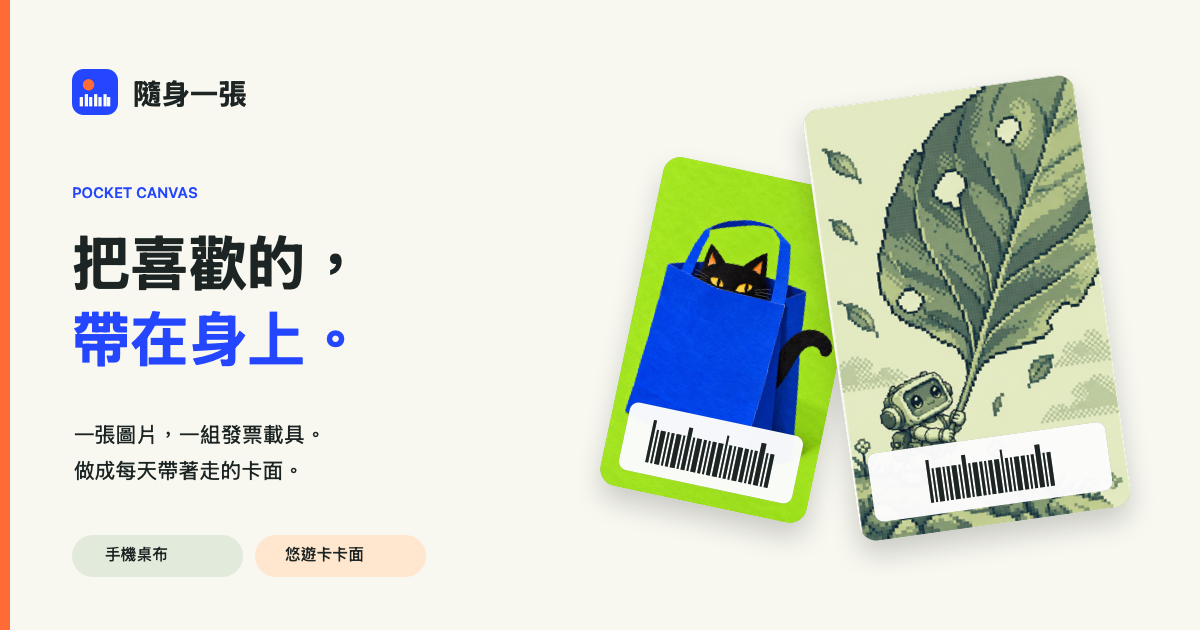
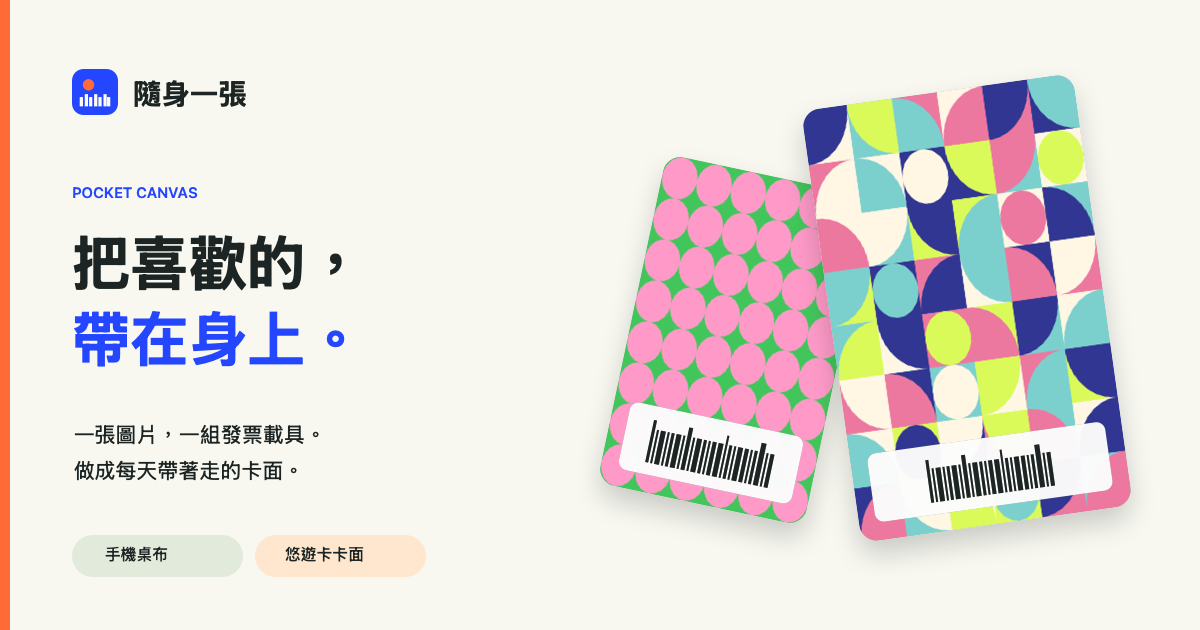
feat(invoice-gen): 更新圖庫分組與分享圖片
- 將夜色移回自由曲線，僅保留彎彎曲線的兩種配色於流動的波浪
- 以相切點點和四分之一圓拼貼重製首頁 OG 圖
- 為首頁及簡易製作頁的 OG、Twitter 圖片加入內容 hash
- 讓素材產生腳本在重新輸出時自動更新分享圖片網址

Changed region(s): [[0.4933, 0.1206, 0.9558, 0.8746]]

diff --git a/invoice-gen/tools/generate-social-assets.swift b/invoice-gen/tools/generate-social-assets.swift
@@ -1,6 +1,7 @@
 // Run from invoice-gen: swift tools/generate-social-assets.swift
-// Generates raster sharing previews from the checked-in artwork.
+// Generates raster sharing previews with two patterns from gallery.js.
 import AppKit
+import CryptoKit
 import Foundation
 
 let canvasWidth = 1200
@@ -47,8 +48,57 @@ func mark(x: CGFloat, y: CGFloat, size: CGFloat) {
     context.restoreGState()
 }
 
-func artwork(_ name: String) -> NSImage {
-    guard let image = NSImage(contentsOfFile: "artworks/\(name)") else { fatalError("Missing artwork: \(name)") }
+func color(_ hex: String) -> NSColor {
+    guard let value = Int(hex.dropFirst(), radix: 16) else { fatalError("Invalid color: \(hex)") }
+    return NSColor(srgbRed: CGFloat((value >> 16) & 255) / 255,
+                   green: CGFloat((value >> 8) & 255) / 255,
+                   blue: CGFloat(value & 255) / 255, alpha: 1)
+}
+
+func pattern(_ name: String) -> NSImage {
+    let width = 1200, height = 1600
+    guard let bitmap = NSBitmapImageRep(bitmapDataPlanes: nil, pixelsWide: width, pixelsHigh: height,
+                                       bitsPerSample: 8, samplesPerPixel: 4, hasAlpha: true,
+                                       isPlanar: false, colorSpaceName: .deviceRGB,
+                                       bytesPerRow: 0, bitsPerPixel: 0),
+          let context = NSGraphicsContext(bitmapImageRep: bitmap) else { fatalError("Cannot create pattern") }
+    NSGraphicsContext.saveGraphicsState()
+    NSGraphicsContext.current = context
+    if name == "dots-touching" {
+        fill(NSRect(x: 0, y: 0, width: width, height: height), color: color("#42c65b"))
+        color("#ff9ac8").setFill()
+        for row in 0..<8 { for col in 0..<6 {
+            NSBezierPath(ovalIn: NSRect(x: col * 200, y: row * 200, width: 200, height: 200)).fill()
+        }}
+    } else if name == "quarter-mosaic" {
+        let colors = ["#fff6e4", "#313692", "#dafa5a", "#ec789f", "#7bd0ce"].map(color)
+        let cells: [[(Int, Int, String)]] = [
+            [(0,1,"tl"),(4,2,"tr"),(3,4,"bl"),(0,3,"br"),(3,1,"tl"),(1,4,"tr")],
+            [(3,0,"br"),(0,4,"bl"),(1,0,"full"),(1,2,"tr"),(4,3,"tl"),(0,2,"full")],
+            [(0,3,"bl"),(4,0,"tl"),(2,1,"tr"),(2,4,"br"),(0,3,"full"),(4,1,"bl")],
+            [(2,4,"tl"),(1,4,"full"),(3,1,"br"),(0,4,"tr"),(1,3,"bl"),(3,0,"tl")],
+            [(4,2,"br"),(0,1,"tr"),(3,2,"full"),(2,3,"bl"),(4,1,"tl"),(0,4,"br")],
+            [(3,0,"tr"),(1,3,"bl"),(4,0,"full"),(0,2,"tl"),(3,4,"br"),(2,1,"tr")],
+            [(0,4,"bl"),(2,1,"full"),(1,0,"tl"),(3,2,"tr"),(4,3,"bl"),(0,1,"br")],
+            [(1,3,"br"),(4,0,"tr"),(0,2,"bl"),(2,4,"full"),(3,1,"tl"),(4,3,"br")]
+        ]
+        let corners: [String: (CGFloat, CGFloat)] = ["tl":(0,0),"tr":(200,0),"br":(200,200),"bl":(0,200),"full":(100,100)]
+        for (row, items) in cells.enumerated() { for (col, cell) in items.enumerated() {
+            let box = NSRect(x: col * 200, y: (7 - row) * 200, width: 200, height: 200)
+            NSGraphicsContext.saveGraphicsState()
+            NSBezierPath(rect: box).addClip()
+            fill(box, color: colors[cell.0])
+            let corner = corners[cell.2]!, radius: CGFloat = cell.2 == "full" ? 100 : 200
+            let cx = box.minX + corner.0, cy = box.maxY - corner.1
+            colors[cell.1].setFill()
+            NSBezierPath(ovalIn: NSRect(x: cx - radius, y: cy - radius, width: radius * 2, height: radius * 2)).fill()
+            NSGraphicsContext.restoreGraphicsState()
+        }}
+    } else { fatalError("Unknown pattern: \(name)") }
+    context.flushGraphics()
+    NSGraphicsContext.restoreGraphicsState()
+    let image = NSImage(size: NSSize(width: width, height: height))
+    image.addRepresentation(bitmap)
     return image
 }
 
@@ -122,8 +172,8 @@ png("og-home.png", width: canvasWidth, height: canvasHeight) {
     text("手機桌布", x: 105, top: 545, size: 16, color: ink, weight: .medium)
     fill(rectangle(255, 535, 171, 42), color: NSColor(srgbRed: 1, green: 230/255, blue: 206/255, alpha: 1), radius: 21)
     text("悠遊卡卡面", x: 285, top: 545, size: 16, color: ink, weight: .medium)
-    card(artwork("cat-in-bag-portrait.jpg"), x: 735, top: 340, width: 211, height: 336, angle: -12)
-    card(artwork("unit-beta-todays-find-portrait.jpg"), x: 967, top: 308, width: 274, height: 436, angle: 8)
+    card(pattern("dots-touching"), x: 735, top: 340, width: 211, height: 336, angle: -12)
+    card(pattern("quarter-mosaic"), x: 967, top: 308, width: 274, height: 436, angle: 8)
 }
 
 png("og-wizard.png", width: canvasWidth, height: canvasHeight) {
@@ -148,3 +198,19 @@ png("og-wizard.png", width: canvasWidth, height: canvasHeight) {
     text("三步，做一張。", x: 267, top: 262, size: 78, color: .white, weight: .bold)
     text("你的發票載具卡面", x: 272, top: 384, size: 31, color: .white, weight: .medium)
 }
+
+func updateOGHash(page: String, image: String) {
+    let bytes = try! Data(contentsOf: URL(fileURLWithPath: image))
+    let hash = SHA256.hash(data: bytes).prefix(6).map { String(format: "%02x", $0) }.joined()
+    let imageURL = "https://ml-yoyohuang.github.io/tools/invoice-gen/\(image)"
+    let regex = try! NSRegularExpression(pattern: NSRegularExpression.escapedPattern(for: imageURL) + "(?:\\?v=[a-f0-9]+)?")
+    let pageURL = URL(fileURLWithPath: page)
+    let html = try! String(contentsOf: pageURL, encoding: .utf8)
+    let range = NSRange(html.startIndex..<html.endIndex, in: html)
+    let updated = regex.stringByReplacingMatches(in: html, range: range, withTemplate: imageURL + "?v=" + hash)
+    precondition(regex.numberOfMatches(in: html, range: range) == 2, "Expected OG and Twitter image URLs in \(page)")
+    try! updated.write(to: pageURL, atomically: true, encoding: .utf8)
+}
+
+updateOGHash(page: "index.html", image: "og-home.png")
+updateOGHash(page: "wizard.html", image: "og-wizard.png")

diff --git a/invoice-gen/index.html b/invoice-gen/index.html
@@ -15,18 +15,18 @@
   <meta property="og:title" content="隨身一張｜載具桌布製作器">
   <meta property="og:description" content="一張圖片，一組發票載具。做成每天帶著走的手機桌布或悠遊卡卡面。">
   <meta property="og:url" content="https://ml-yoyohuang.github.io/tools/invoice-gen/">
-  <meta property="og:image" content="https://ml-yoyohuang.github.io/tools/invoice-gen/og-home.png">
+  <meta property="og:image" content="https://ml-yoyohuang.github.io/tools/invoice-gen/og-home.png?v=434393be9fdc">
   <meta property="og:image:type" content="image/png">
   <meta property="og:image:width" content="1200">
   <meta property="og:image:height" content="630">
-  <meta property="og:image:alt" content="隨身一張：貓咪和 Unit-β 卡面，搭配載具條碼與『把喜歡的，帶在身上。』">
+  <meta property="og:image:alt" content="隨身一張：相切點點和四分之一圓拼貼卡面，搭配載具條碼與『把喜歡的，帶在身上。』">
   <meta name="twitter:card" content="summary_large_image">
-  <meta name="twitter:image" content="https://ml-yoyohuang.github.io/tools/invoice-gen/og-home.png">
+  <meta name="twitter:image" content="https://ml-yoyohuang.github.io/tools/invoice-gen/og-home.png?v=434393be9fdc">
   <link rel="stylesheet" href="style.css?v=5">
   <script src="core.js?v=4" defer></script>
   <script src="artwork-study-shader.js" defer></script>
   <script src="artwork-renderer.js?v=18" defer></script>
-  <script src="gallery.js?v=38" defer></script>
+  <script src="gallery.js?v=39" defer></script>
   <script src="app.js?v=12" defer></script>
 </head>
 <body>

diff --git a/invoice-gen/wizard.html b/invoice-gen/wizard.html
@@ -15,18 +15,18 @@
   <meta property="og:title" content="簡易製作｜隨身一張">
   <meta property="og:description" content="三個步驟，選一張圖，做出每天帶著走的載具卡面。">
   <meta property="og:url" content="https://ml-yoyohuang.github.io/tools/invoice-gen/wizard.html">
-  <meta property="og:image" content="https://ml-yoyohuang.github.io/tools/invoice-gen/og-wizard.png?v=2">
+  <meta property="og:image" content="https://ml-yoyohuang.github.io/tools/invoice-gen/og-wizard.png?v=27dc58af6879">
   <meta property="og:image:type" content="image/png">
   <meta property="og:image:width" content="1200">
   <meta property="og:image:height" content="630">
   <meta property="og:image:alt" content="隨身一張簡易製作：白橘滿版波浪圖樣、藍色文字底色與『三步，做一張。』">
   <meta name="twitter:card" content="summary_large_image">
-  <meta name="twitter:image" content="https://ml-yoyohuang.github.io/tools/invoice-gen/og-wizard.png?v=2">
+  <meta name="twitter:image" content="https://ml-yoyohuang.github.io/tools/invoice-gen/og-wizard.png?v=27dc58af6879">
   <link rel="stylesheet" href="wizard.css?v=6">
   <script src="core.js?v=wizard1" defer></script>
   <script src="artwork-study-shader.js" defer></script>
   <script src="artwork-renderer.js?v=18" defer></script>
-  <script src="gallery.js?v=38" defer></script>
+  <script src="gallery.js?v=39" defer></script>
   <script src="wizard.js?v=13" defer></script>
 </head>
 <body data-step="1">

diff --git a/invoice-gen/gallery.js b/invoice-gen/gallery.js
@@ -185,11 +185,11 @@ const invoicePatternArtwork=invoicePatterns.map(({draw,thumbViewBox,...art})=>{
   return {...art,kind:'pattern',...variants[0],variants};
 });
 const invoicePatternGroups=[
-  {id:'pattern-waves',name:'流動的波浪',members:['waves-even','waves','squiggle','squiggle-night']},
+  {id:'pattern-waves',name:'流動的波浪',members:['waves-even','waves','squiggle']},
   {id:'pattern-grid',name:'方格與立方',members:['grid','grid-two-tone','cube-blocks']},
   {id:'pattern-lines',name:'斜向節奏',members:['diagonal','diagonal-wide']},
   {id:'pattern-circles',name:'圓形拼貼',members:['dots','dots-touching','quarter-circles','quarter-mosaic']},
-  {id:'pattern-curves',name:'自由曲線',members:['squiggle-free']}
+  {id:'pattern-curves',name:'自由曲線',members:['squiggle-night','squiggle-free']}
 ];
 window.InvoiceArtwork=invoicePatternGroups.map(group=>{
   const variants=group.members.flatMap(id=>{
